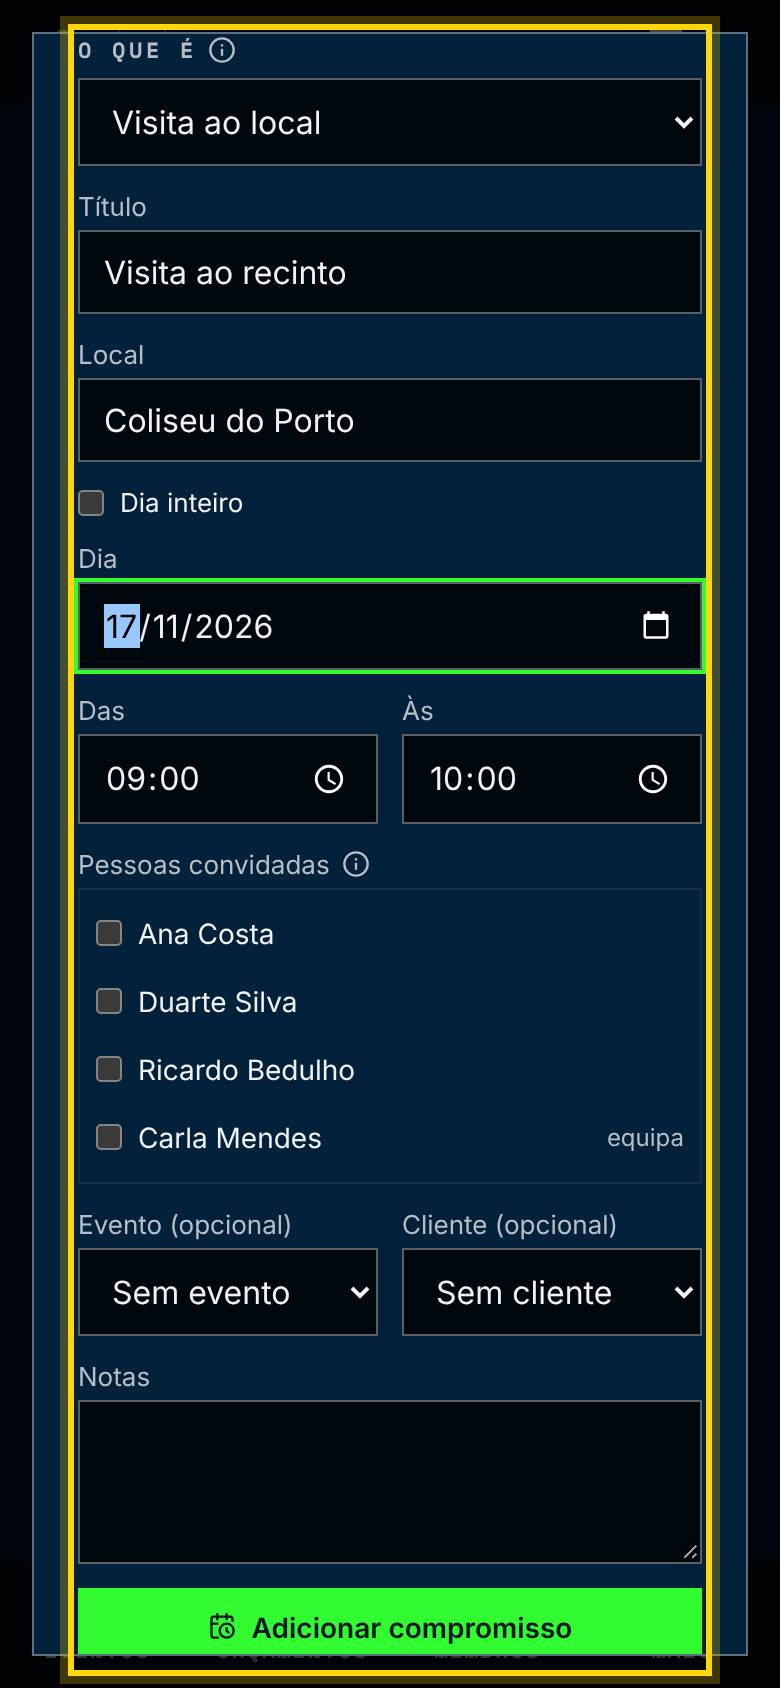
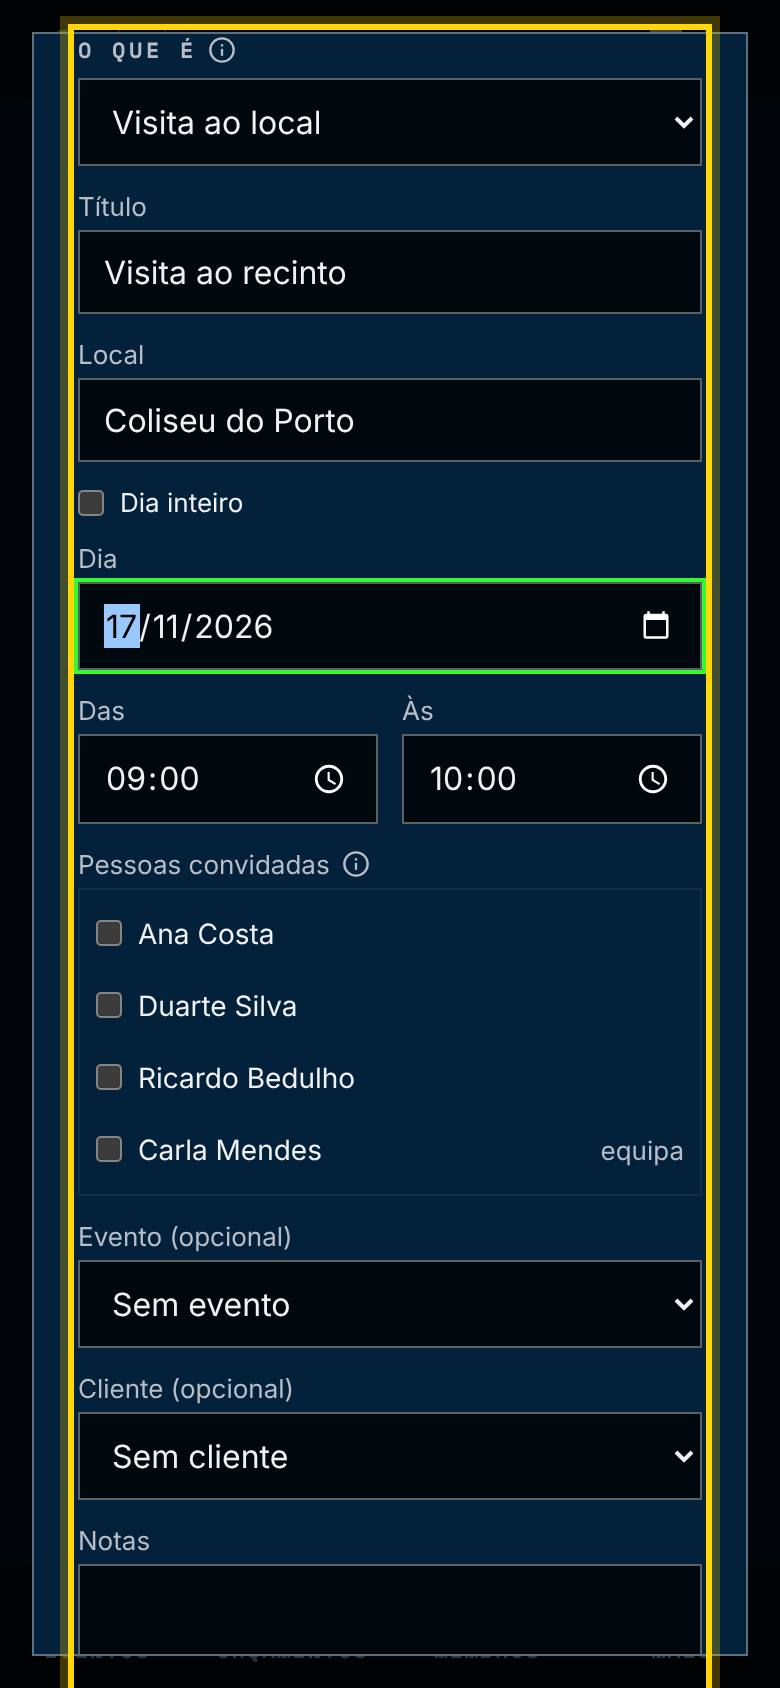
Appointment form: full-width gig and client pickers on narrow phones (V2) (WIP)
Claude-Session: https://claude.ai/code/session_01TrujDJiQA5FiaovwLxzUK4

Changed region(s): [[0.0615, 0.5853, 0.9231, 1.0]]

diff --git a/src/components/appointments/AppointmentParts.jsx b/src/components/appointments/AppointmentParts.jsx
@@ -240,14 +240,14 @@ export function AppointmentForm({ orgId, timeZone, appointment, preset, onSaved,
           )}
         </fieldset>
 
-        <label style={field}>{t('appointments.gig')}
+        <label style={full}>{t('appointments.gig')}
           <select value={form.gigId} onChange={e => set({ gigId: e.target.value })} style={input}>
             <option value="">{t('appointments.noGig')}</option>
             {gigs.map(g => <option key={g.id} value={g.id}>{g.name}</option>)}
             {form.gigId && !gigs.some(g => g.id === form.gigId) && <option value={form.gigId}>{t('appointments.linkedGig')}</option>}
           </select>
         </label>
-        <label style={field}>{t('appointments.client')}
+        <label style={full}>{t('appointments.client')}
           <select value={form.clientId} onChange={e => set({ clientId: e.target.value })} style={input}>
             <option value="">{t('appointments.noClient')}</option>
             {clients.map(c => <option key={c.id} value={c.id}>{c.name}</option>)}
